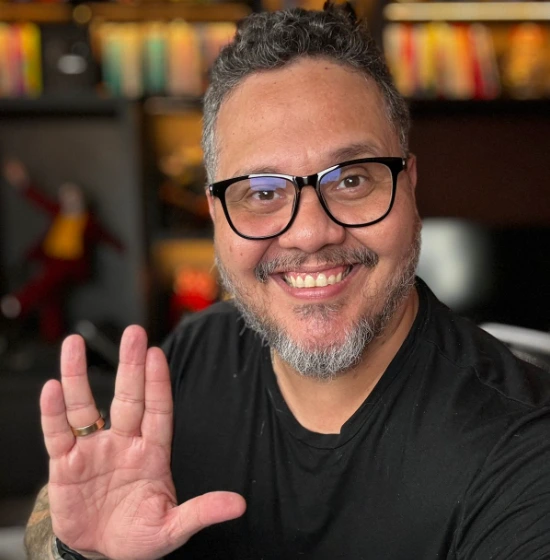
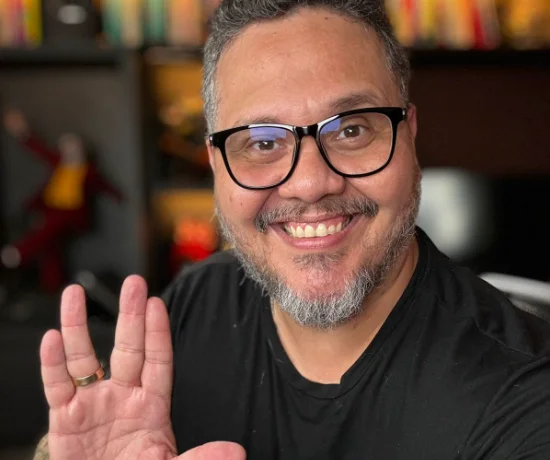
otimizacao do portfolio

diff --git a/index.html b/index.html
@@ -110,8 +110,8 @@
                             <div
                                 class="relative bg-slate-200 dark:bg-slate-800 rounded-full lg:rounded-2xl overflow-hidden aspect-square border border-slate-300 dark:border-slate-700 flex items-center justify-center">
 
-                                <img src="img/foto.webp" alt="João Paulo Santana"
-                                    class="w-full h-full object-cover object-[center_60%]">
+                                <img src="img/foto.webp" alt="Foto de João Paulo"
+                                    class="w-full h-full object-cover object-center" />
                             </div>
                         </div>
                     </div>
@@ -131,7 +131,7 @@
                                         class="w-full h-full bg-slate-200 dark:bg-slate-800 rounded-full overflow-hidden flex items-center justify-center aspect-square">
 
                                         <img src="img/foto.webp" alt="João Paulo Avatar"
-                                            class="w-full h-full object-cover object-[center_60%]">
+                                            class="w-full h-full object-cover object-center">
                                     </div>
                                 </div>
                             </div>
@@ -186,8 +186,8 @@
                                         primeiras linhas de código em HTML e CSS. Foi ali que a semente do
                                         desenvolvimento
                                         de software foi plantada.</p>
-                                    <img src="img/foto guanabara.webp" alt="Gustavo Guanabara"
-                                        class="w-full h-48 object-cover object-[center_30%] rounded-xl border border-slate-700/50">
+                                    <img src="img/foto guanabara.webp" alt="Curso com Guanabara"
+                                        class="w-full h-48 object-cover object-center rounded-xl" />
                                 </div>
                             </div>
                             <div
